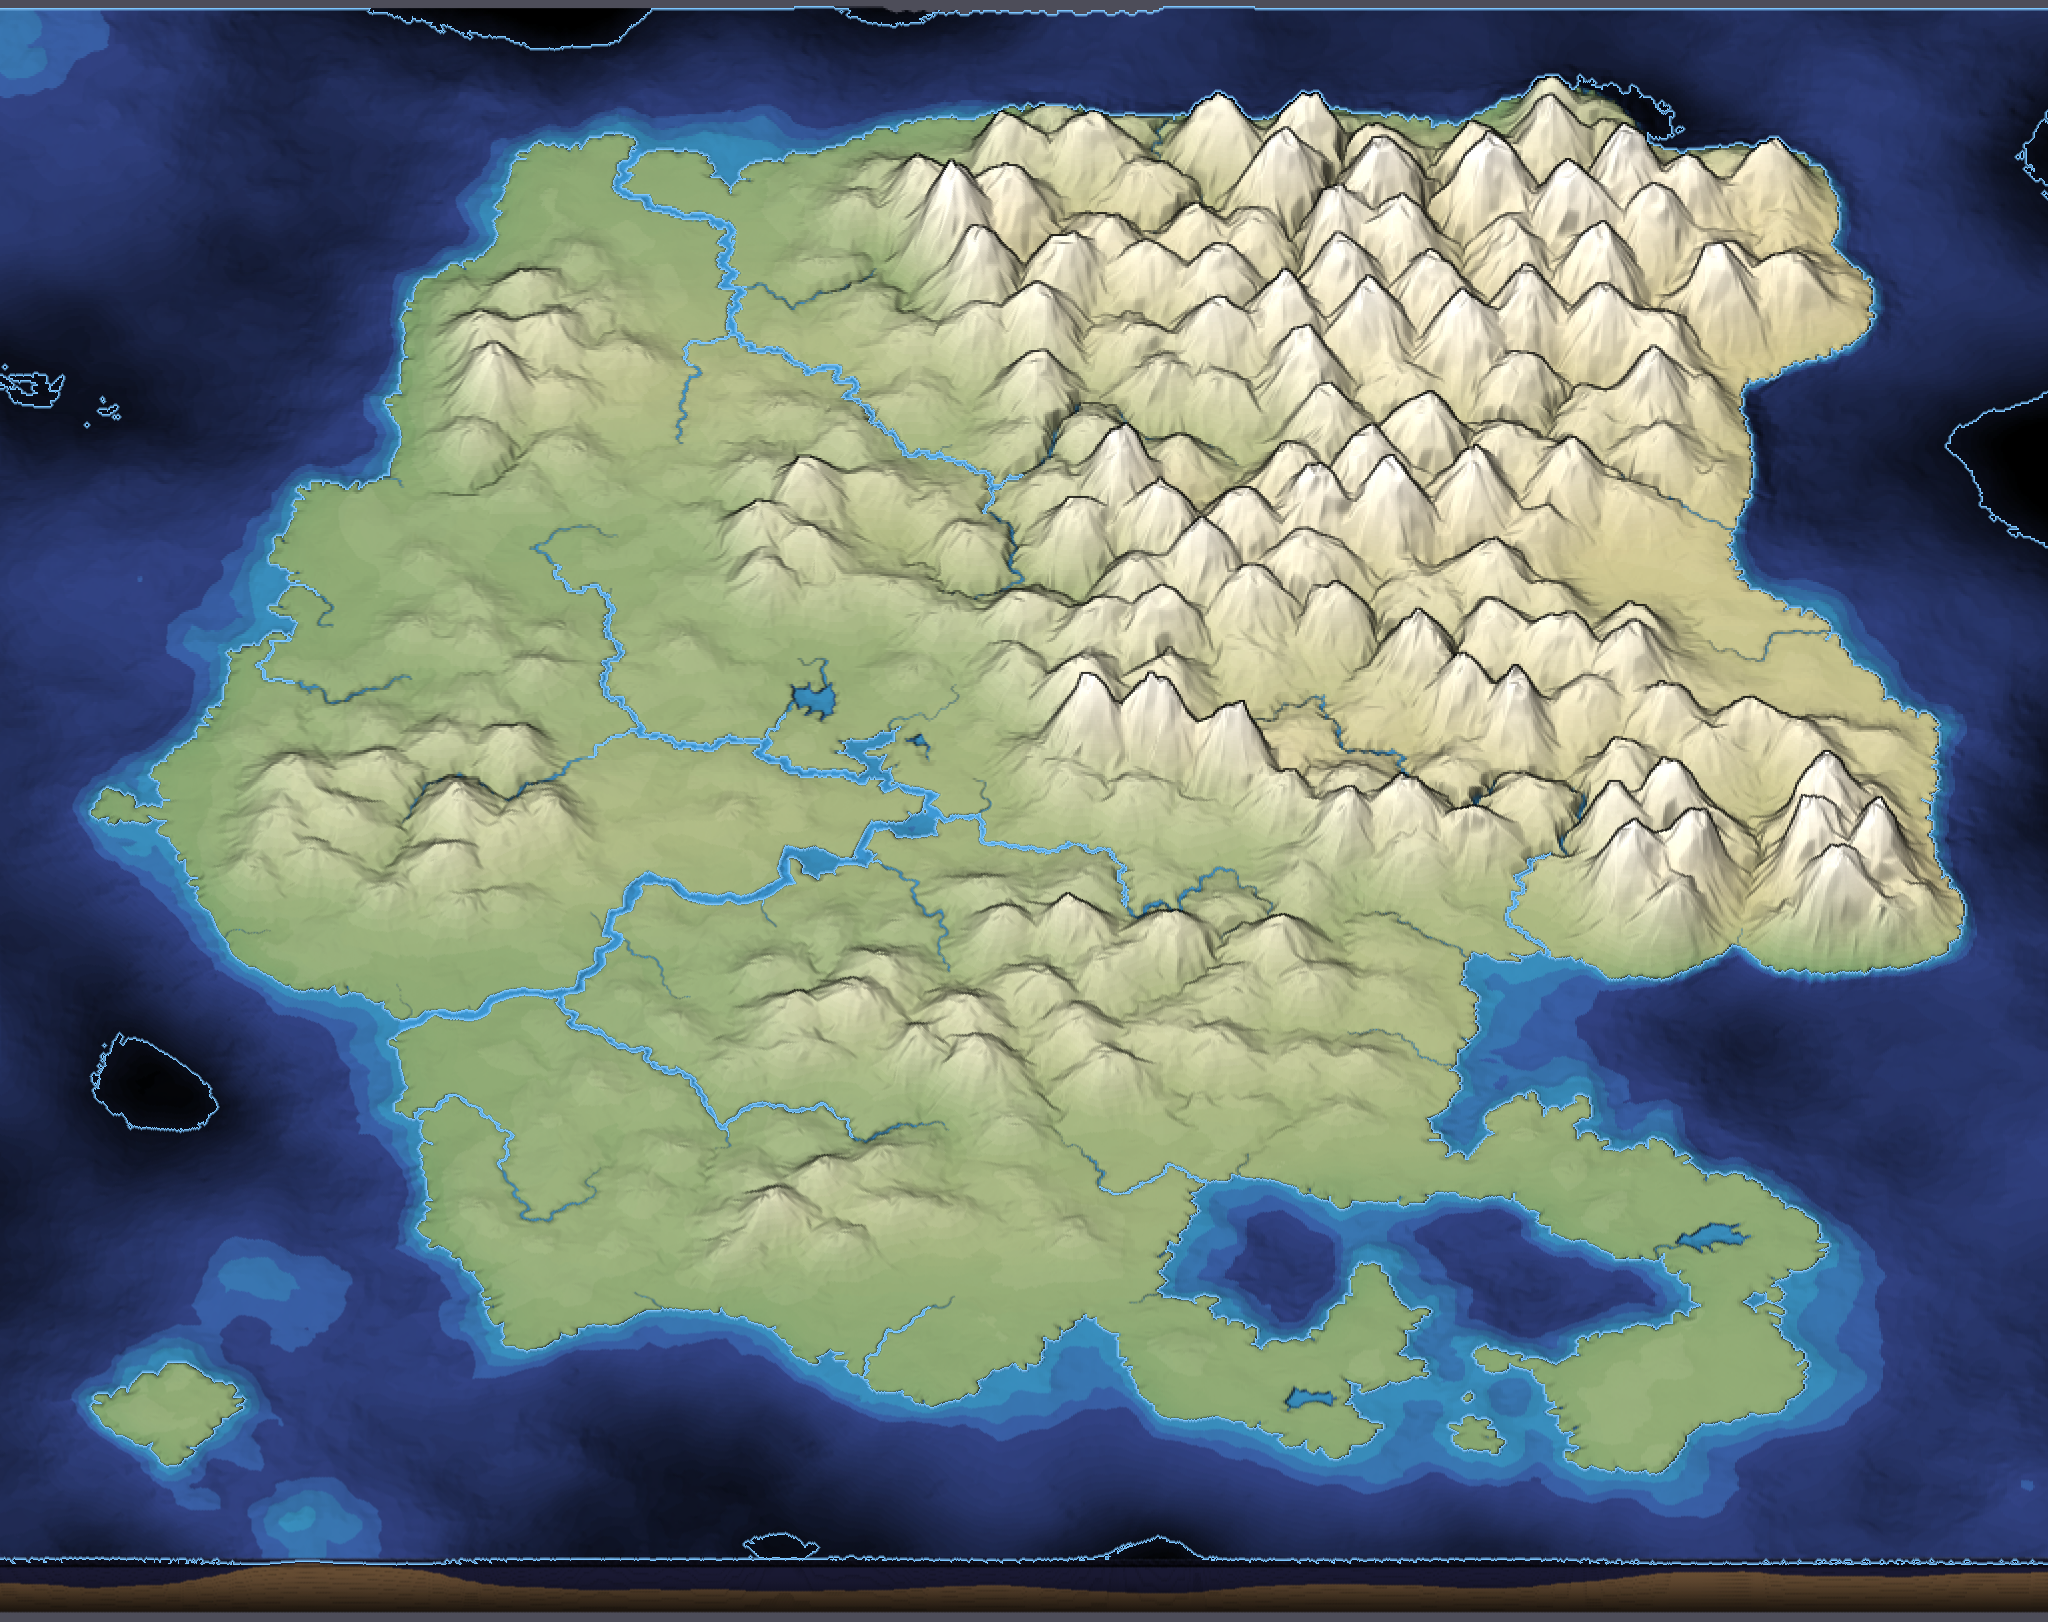
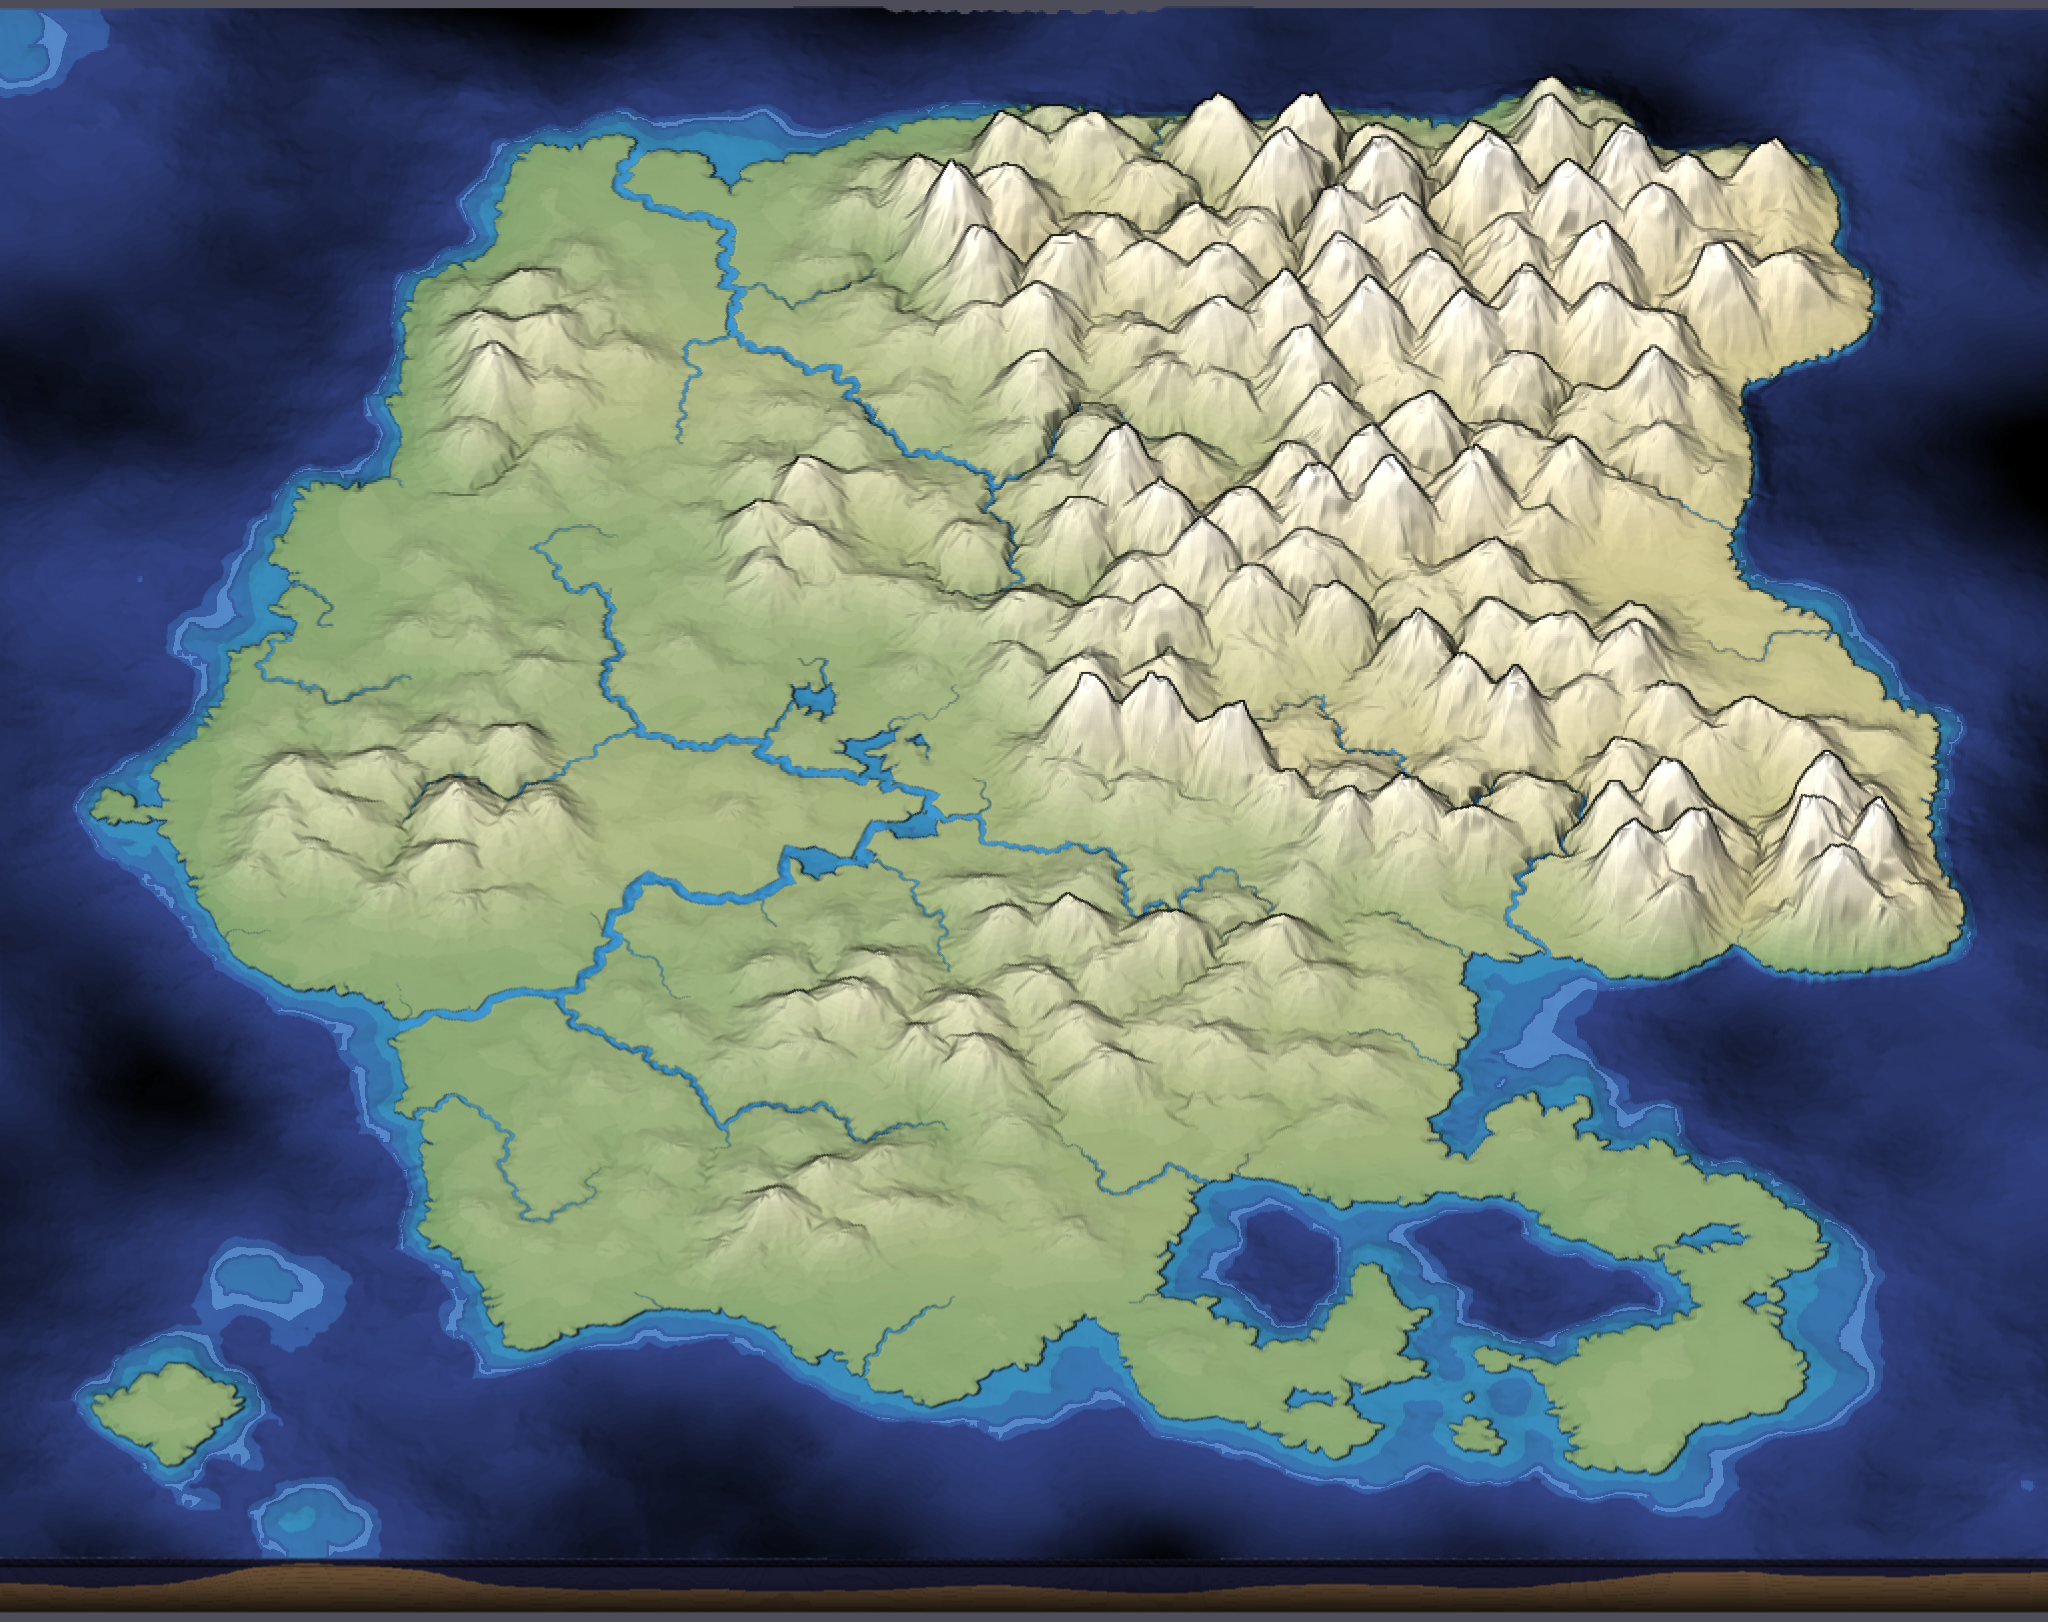
Restore shoreline tide expansion and refresh max preview

diff --git a/frontend/composeApp/src/commonMain/kotlin/de/egril/defender/ui/worldmap/WorldMapTideAnimation.kt b/frontend/composeApp/src/commonMain/kotlin/de/egril/defender/ui/worldmap/WorldMapTideAnimation.kt
@@ -18,6 +18,17 @@ import androidx.compose.ui.layout.ContentScale
 import de.egril.defender.ui.settings.AppSettings
 import defender_of_egril.composeapp.generated.resources.Res
 import defender_of_egril.composeapp.generated.resources.world_map_tide_band01
+import defender_of_egril.composeapp.generated.resources.world_map_tide_band02
+import defender_of_egril.composeapp.generated.resources.world_map_tide_band03
+import defender_of_egril.composeapp.generated.resources.world_map_tide_band04
+import defender_of_egril.composeapp.generated.resources.world_map_tide_band05
+import defender_of_egril.composeapp.generated.resources.world_map_tide_band06
+import defender_of_egril.composeapp.generated.resources.world_map_tide_band07
+import defender_of_egril.composeapp.generated.resources.world_map_tide_band08
+import defender_of_egril.composeapp.generated.resources.world_map_tide_band09
+import defender_of_egril.composeapp.generated.resources.world_map_tide_band10
+import defender_of_egril.composeapp.generated.resources.world_map_tide_band11
+import defender_of_egril.composeapp.generated.resources.world_map_tide_band12
 import org.jetbrains.compose.resources.painterResource
 
 private const val TIDE_CYCLE_MILLIS = 36000
@@ -25,6 +36,17 @@ private val INNER_TIDE_COLOR = Color(0xFF7CC6FF)
 
 private val shorelineTideSliceResources = listOf(
     Res.drawable.world_map_tide_band01,
+    Res.drawable.world_map_tide_band02,
+    Res.drawable.world_map_tide_band03,
+    Res.drawable.world_map_tide_band04,
+    Res.drawable.world_map_tide_band05,
+    Res.drawable.world_map_tide_band06,
+    Res.drawable.world_map_tide_band07,
+    Res.drawable.world_map_tide_band08,
+    Res.drawable.world_map_tide_band09,
+    Res.drawable.world_map_tide_band10,
+    Res.drawable.world_map_tide_band11,
+    Res.drawable.world_map_tide_band12,
 )
 
 @Composable
